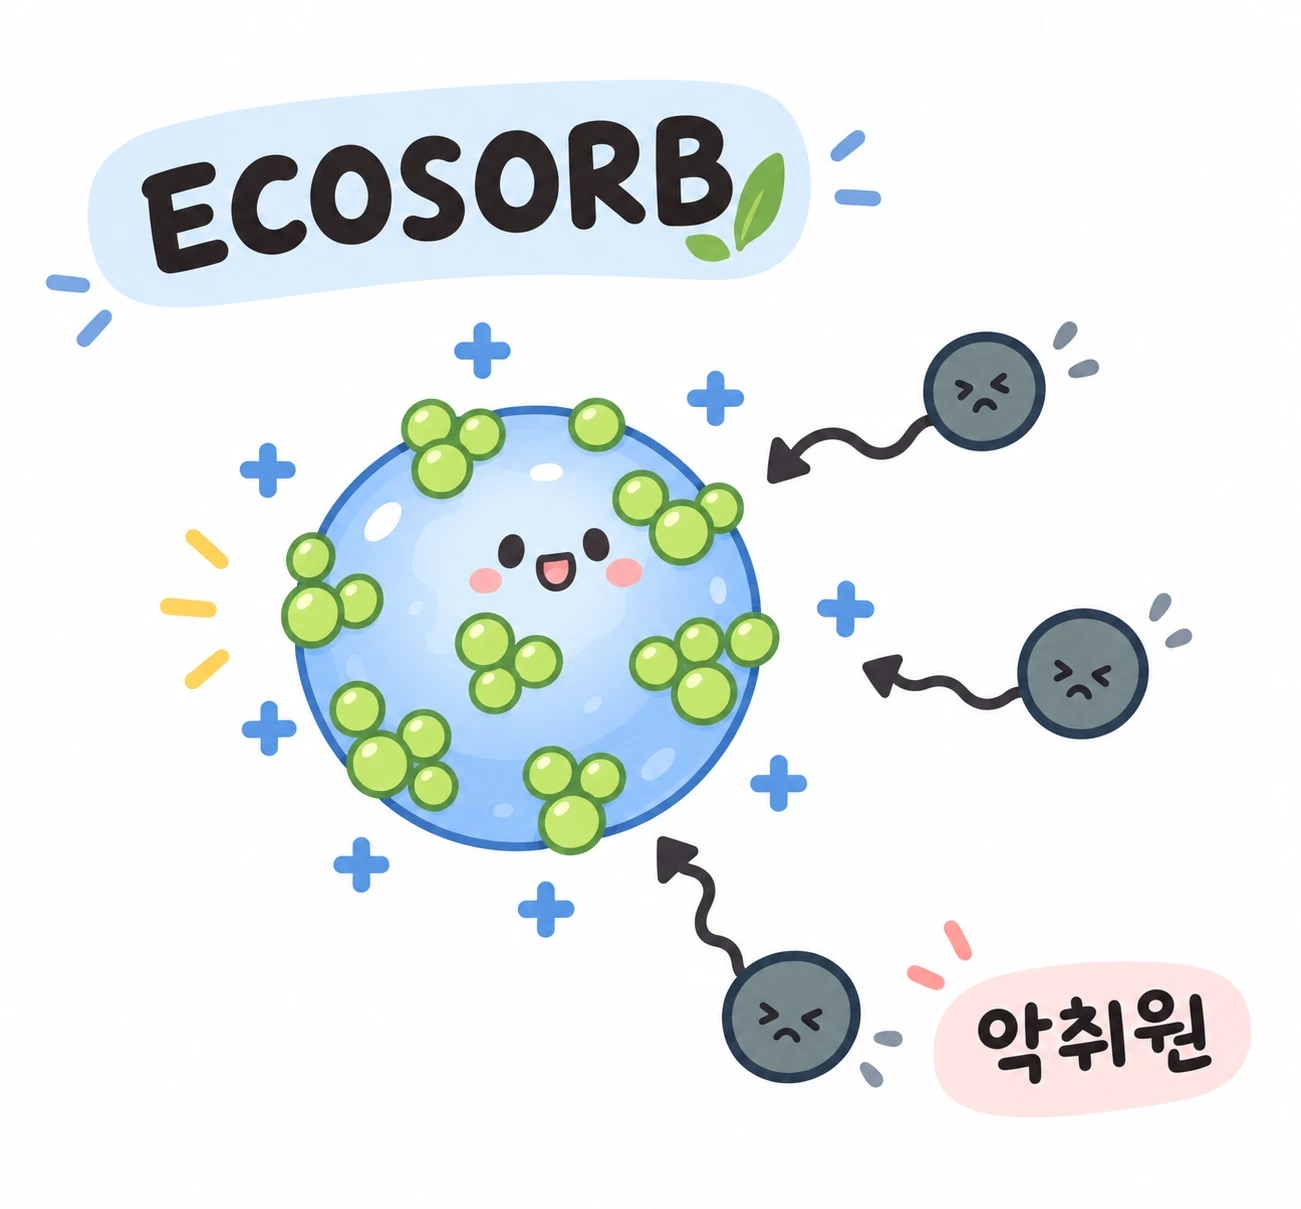
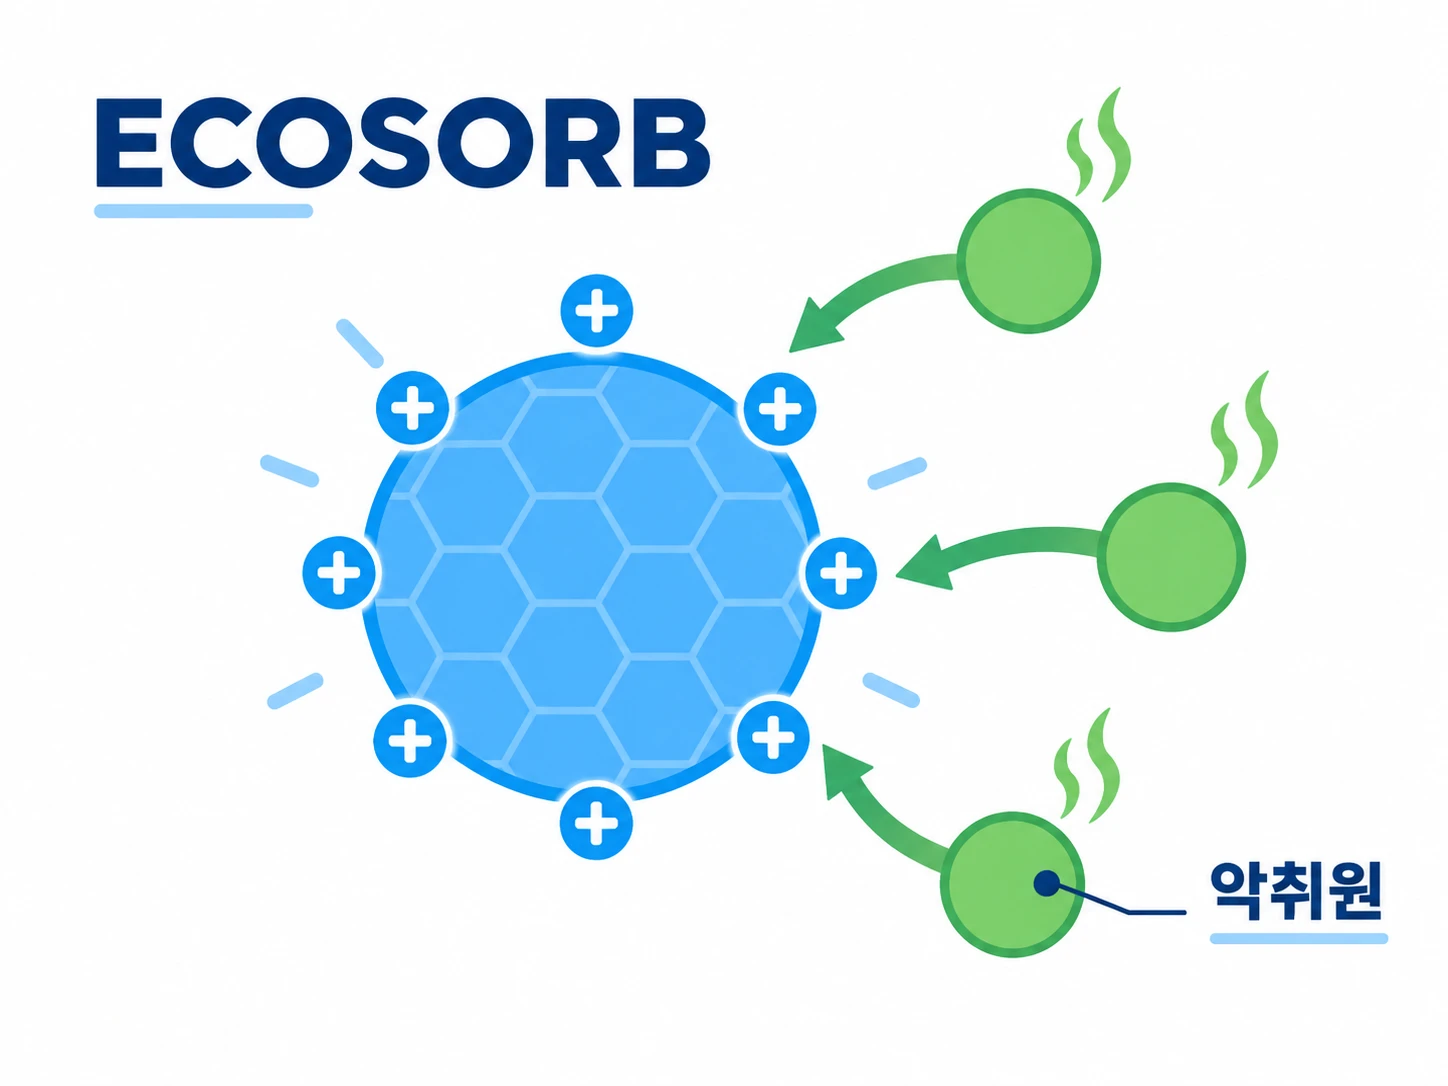
ECOSORB 다이어그램 이미지 재교체
새로 받은 육각형 패턴 ECOSORB 다이어그램으로 이미지를 교체하고,
새 이미지 비율(1448x1086)에 맞춰 표시 크기와 레이아웃을 조정했습니다.

Claude-Session: https://claude.ai/code/session_0197au7FqDxZtCgh2F1Simpj

diff --git a/src/components/home/EcosorbMechanism.tsx b/src/components/home/EcosorbMechanism.tsx
@@ -5,9 +5,9 @@ function EcosorbDiagram() {
     <Image
       src="/images/safety/ecosorb-diagram.webp"
       alt="ECOSORB가 양전하를 띠고 악취원 분자와 결합하는 원리 그림"
-      width={1301}
-      height={1209}
-      className="h-auto w-full max-w-[280px]"
+      width={1448}
+      height={1086}
+      className="h-auto w-full max-w-[320px]"
     />
   );
 }
@@ -17,7 +17,7 @@ export default function EcosorbMechanism() {
     <div className="mt-10 rounded-2xl border border-gray-200 bg-white px-6 py-7 sm:px-9 sm:py-9">
       <p className="text-sm font-bold tracking-widest text-brand">사용 약품 — ECOSORB</p>
 
-      <div className="mt-2 grid gap-6 sm:grid-cols-[1fr_180px] sm:items-start">
+      <div className="mt-2 grid gap-6 sm:grid-cols-[1fr_260px] sm:items-start">
         <div>
           <h3 className="text-xl font-black text-gray-900 sm:text-2xl">악취제거 메커니즘</h3>
           <ul className="mt-4 space-y-2 text-[15px] leading-7 text-gray-800">
